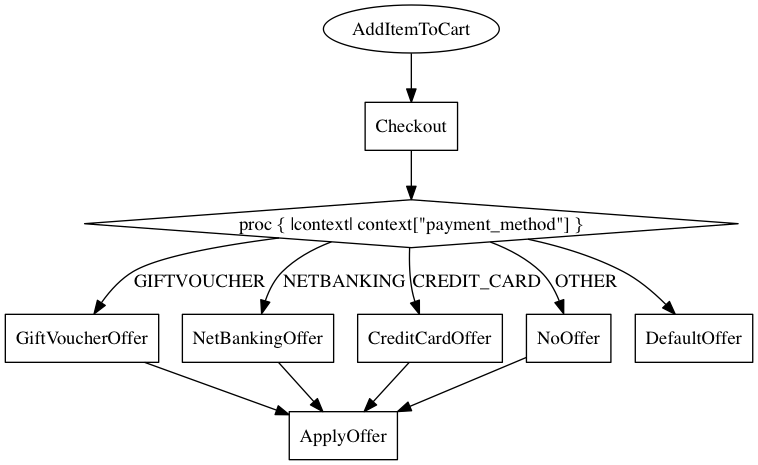
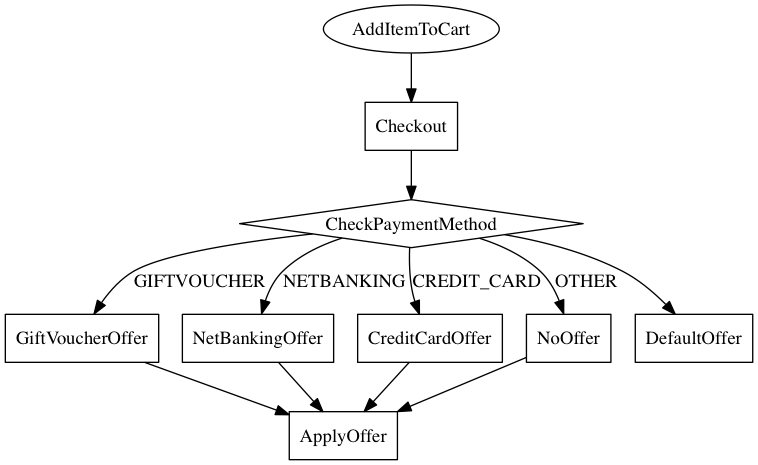
move conditions from proc to class

Changed region(s): [[0.1214, 0.4215, 0.971, 0.5419]]

diff --git a/test/unit/actor/switch_actor_test.rb b/test/unit/actor/switch_actor_test.rb
@@ -1,10 +1,28 @@
 require File.expand_path(File.dirname(__FILE__) + '/../base_drift_test')
 
+class CheckContextBeta < BaseCondition
+  def self.eval_condition(context)
+    'beta'
+  end
+end
+
+class CheckContextOther < BaseCondition
+  def self.eval_condition(context)
+    'other'
+  end
+end
+
+class CheckContextDefault < BaseCondition
+  def self.eval_condition(context)
+    :default
+  end
+end
+
 class SwitchActorTest < BaseDriftTest
   include Drift
 
   setup do
-    @switch_actor = switch_actor Proc.new {}
+    @switch_actor = switch_actor NilClass
 
     add_water = single_actor AddWater
     add_noodles = single_actor AddNoodles
@@ -20,7 +38,7 @@ class SwitchActorTest < BaseDriftTest
   end
 
   def test_switching_action_act_on_2_for_beta
-    @switch_actor.condition = Proc.new {'beta'}
+    @switch_actor.condition = CheckContextBeta
     a = @switch_actor.execute(BaseContext.new({}))
 
     assert_equal 'Added maggie noodles', a['noodles']
@@ -29,7 +47,7 @@ class SwitchActorTest < BaseDriftTest
   end
 
   def test_switching_action_act_on_4_for_other
-    @switch_actor.condition = Proc.new {'other'}
+    @switch_actor.condition = CheckContextOther
     a = @switch_actor.execute(BaseContext.new({}))
 
     assert_equal 'Cook on gas for five minutes', a['cook']
@@ -39,7 +57,7 @@ class SwitchActorTest < BaseDriftTest
   end
 
   def test_switching_action_act_on_4_for_default
-    @switch_actor.condition = Proc.new {:default}
+    @switch_actor.condition = CheckContextDefault
     a = @switch_actor.execute(BaseContext.new({}))
 
     assert_equal 'Cook on gas for five minutes', a['cook']

diff --git a/lib/sample/railway_crossing.rb b/lib/sample/railway_crossing.rb
@@ -35,20 +35,25 @@ class SayHi < BaseActivity
   end
 end
 
+class CheckTrainOnLeft < BaseCondition
+  def self.eval_condition(context)
+    context['train_on_left']
+  end
+end
+
+class CheckTrainOnRight < BaseCondition
+  def self.eval_condition(context)
+    context['train_on_right']
+  end
+end
+
+class CheckIfWait < BaseCondition
+  def self.eval_condition(context)
+    context['wait']
+  end
+end
 
 class RailwayCrossing < BaseAct
-
-  condition1 = Proc.new do |ctx|
-    ctx['train_on_left']
-  end
-
-  condition2 = Proc.new do |ctx|
-    ctx['wait']
-  end
-
-  condition3 = Proc.new do |ctx|
-    ctx['train_on_right']
-  end
 
   #
   # actor definition
@@ -61,9 +66,9 @@ class RailwayCrossing < BaseAct
 
   a7 = single_actor SayHi, false
 
-  s1 = switch_actor condition1
-  s2 = switch_actor condition2
-  s3 = switch_actor condition3
+  s1 = switch_actor CheckTrainOnLeft
+  s2 = switch_actor CheckIfWait
+  s3 = switch_actor CheckTrainOnRight
 
   #
   # next actor registration
@@ -84,9 +89,9 @@ class RailwayCrossing < BaseAct
 
   #
   # actor registration
-  RailwayCrossing.start = a1
-  RailwayCrossing.register_actors a1, a2, a3, a4, a5, a6, a7
-  RailwayCrossing.register_actors s1, s2, s3
+  self.start = a1
+  self.register_actors a1, a2, a3, a4, a5, a6, a7
+  self.register_actors s1, s2, s3
 
 end
 

diff --git a/lib/sample/segregate.rb b/lib/sample/segregate.rb
@@ -36,12 +36,13 @@ class WriteAuditLogs < BaseActivity
   end
 end
 
-
-class Segregate < BaseAct
-  c1 = Proc.new do
+class CheckBulk < BaseCondition
+  def self.eval_condition(context)
     ["supplier_return","liquidate","refurbish"][Random.rand(512)%3]
   end
+end
 
+class Segregate < BaseAct
   #
   # actor definition
   a1 = single_actor FetchData
@@ -50,13 +51,13 @@ class Segregate < BaseAct
   a4 = single_actor Refurbish
   a5 = single_actor WriteAuditLogs
 
-  s1 = switch_actor c1
+  s1 = switch_actor CheckBulk
 
   #
   # actor registration
-  Segregate.start = a1
-  Segregate.register_actors a1, a2, a3, a4, a5
-  Segregate.register_actors s1
+  self.start = a1
+  self.register_actors a1, a2, a3, a4, a5
+  self.register_actors s1
 
   #
   # next actor registration

diff --git a/lib/sample/buy_item.rb b/lib/sample/buy_item.rb
@@ -61,16 +61,17 @@ class DefaultOffer < BaseActivity
   end
 end
 
-
-class BuyItem < BaseAct
-  condition1 = Proc.new do |context|
+class CheckPaymentMethod < BaseCondition
+  def self.eval_condition(context)
     context['payment_method']
   end
+end
 
 
+class BuyItem < BaseAct
   add_to_cart = single_actor(AddItemToCart)
   checkout = single_actor(Checkout)
-  get_offer = switch_actor(condition1)
+  get_offer = switch_actor(CheckPaymentMethod)
   gift_voucher = single_actor(GiftVoucherOffer)
   net_banking = single_actor(NetBankingOffer)
   credit_card = single_actor(CreditCardOffer)

diff --git a/lib/drift/metadata/switch_actor_metadata.rb b/lib/drift/metadata/switch_actor_metadata.rb
@@ -8,13 +8,13 @@ module Drift
 
     def to_json(*args)
       json_hash = to_json_base_hash
-      json_hash['data'].merge!('condition' => @condition.to_source)
+      json_hash['data'].merge!('condition' => @condition)
       json_hash.to_json(*args)
     end
 
     def self.json_create(json_data_hash)
       obj = json_populate_base_attributes(new, json_data_hash)
-      obj.condition = eval(json_data_hash['condition'])
+      obj.condition = Kernel.const_get(json_data_hash['condition'])
       obj
     end
 

diff --git a/lib/drift/actor/switch_actor.rb b/lib/drift/actor/switch_actor.rb
@@ -11,7 +11,7 @@ module Drift
     QUEUE_SEQ = 3
 
     #args:
-    # condition code block
+    # condition class
     # actor id (String)
     # async as boolean
     # queue name
@@ -22,11 +22,11 @@ module Drift
     end
 
     def do_action(context)
-      condition.call(context)
+      condition.eval_condition(context)
     end
 
     def identity
-      @metadata.condition.to_source
+      condition.name
     end
 
     def condition

diff --git a/lib/sample/circular_act.rb b/lib/sample/circular_act.rb
@@ -14,14 +14,16 @@ class Printer < BaseActivity
   end
 end
 
-
-class CircularAct < BaseAct
-  condition = Proc.new do |context|
+class CheckLimit < BaseCondition
+  def self.eval_condition(context)
     context['number'] >= context['limit']
   end
+end
+
+class CircularAct < BaseAct
 
   a1 = single_actor(Increment)
-  s1 = switch_actor(condition)
+  s1 = switch_actor(CheckLimit)
   a2 = single_actor(Printer)
 
   self.start = a1

diff --git a/lib/sample/noodle_preparation.rb b/lib/sample/noodle_preparation.rb
@@ -34,8 +34,8 @@ class NoodlePreparation < BaseAct
 
   #
   # actor registration
-  NoodlePreparation.start = a1
-  NoodlePreparation.register_actors a1, a2, a3, a4
+  self.start = a1
+  self.register_actors a1, a2, a3, a4
 
   #
   # next actor registration

diff --git a/lib/drift.rb b/lib/drift.rb
@@ -6,6 +6,8 @@ require_relative 'drift/version'
 
 require_relative 'drift/activity/base_activity'
 
+require_relative 'drift/condition/base_condition'
+
 require_relative 'drift/actor/single_actor'
 require_relative 'drift/actor/switch_actor'
 

diff --git a/lib/drift/condition/base_condition.rb b/lib/drift/condition/base_condition.rb
@@ -1,0 +1,17 @@
+module Drift
+
+  class BaseCondition
+
+    class << self
+
+      undef_method :new
+
+      def eval_condition(context)
+        raise DriftException, "Not Implemented"
+      end
+
+    end
+
+  end
+
+end

diff --git a/lib/drift/actor/single_actor.rb b/lib/drift/actor/single_actor.rb
@@ -27,7 +27,7 @@ module Drift
     end
 
     def identity
-      @metadata.activity.name
+      activity.name
     end
 
     private
